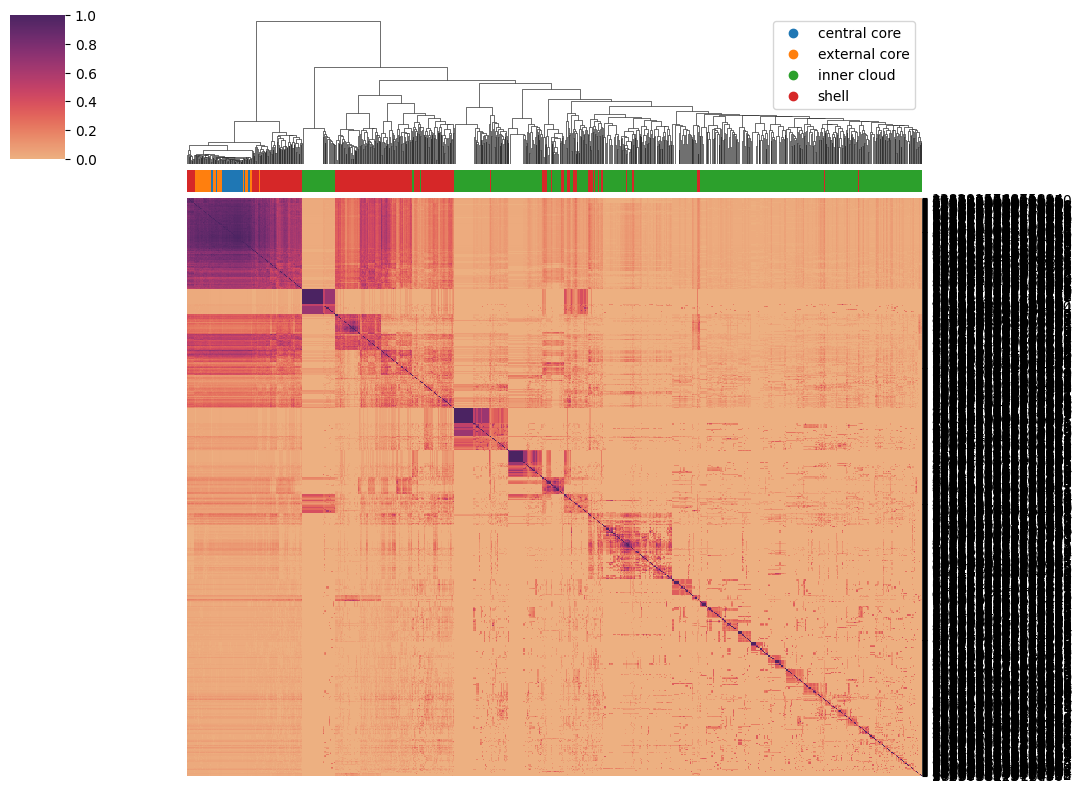
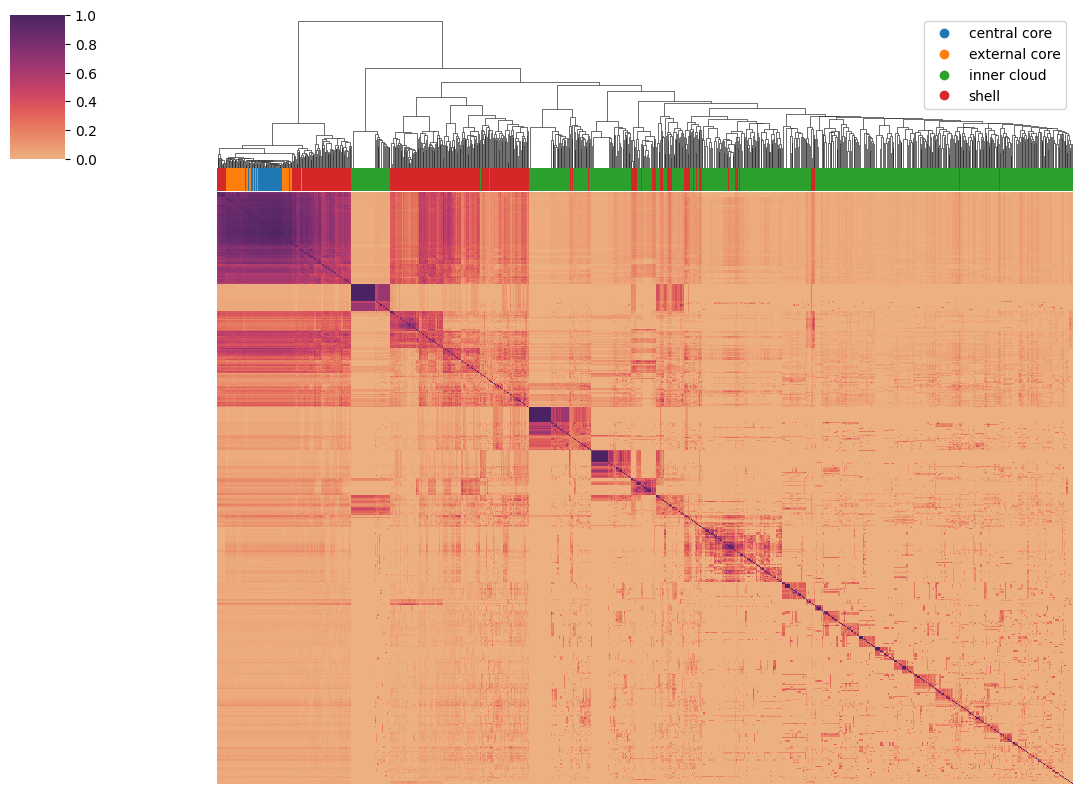
fix 1k -> 10k (#6)

diff --git a/README.md b/README.md
@@ -24,10 +24,10 @@ Next, produce a square matrix of hash x hash correlations across samples:
 ```
 ./hash-by-hash-assoc.py agatha-genomes.1k.dump \
     -o agatha-genomes.10k.assoc --scaled=10000 --min-presence=2 \
-    -C agatha-genomes.1k.assoc.categories.csv
+    -C agatha-genomes.10k.assoc.categories.csv
 sourmash scripts plot3 agatha-genomes.10k.assoc \
     agatha-genomes.10k.assoc.labels.csv -o agatha-genomes.10k.assoc.png \
-    -C agatha-genomes.1k.assoc.categories.csv --no-labels
+    -C agatha-genomes.10k.assoc.categories.csv --no-labels
 ```
 
 These commands produce this plot:
@@ -38,9 +38,9 @@ Finally, produce a rectangular matrix showing hash x genome correlations:
 ```
 ./hash-by-sample.py agatha-genomes.1k.dump \
     -o agatha-genomes.10k.presence.csv \
-    --categories-csv agatha-genomes.1k.presence.categories.csv
+    --categories-csv agatha-genomes.10k.presence.categories.csv
 sourmash scripts clustermap1 agatha-genomes.10k.presence.csv -u presence \
-    -C agatha-genomes.1k.presence.categories.csv \
+    -C agatha-genomes.10k.presence.categories.csv \
     -o agatha-genomes.10k.presence.png --boolean --no-labels
 ```
 
